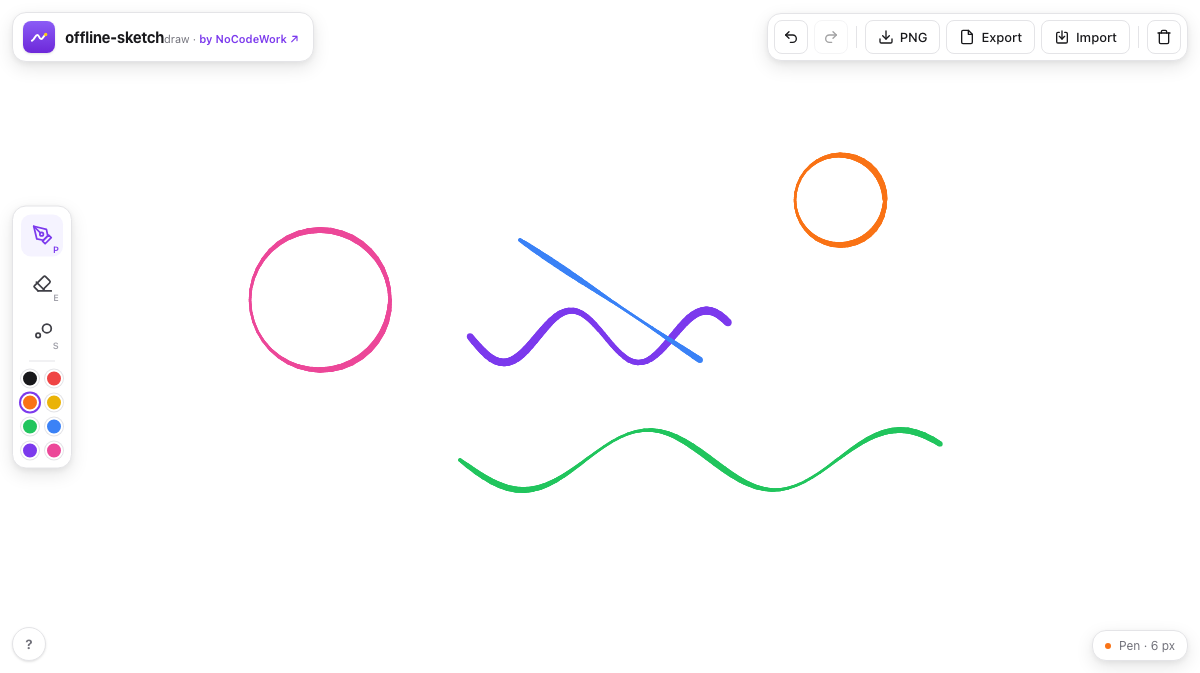
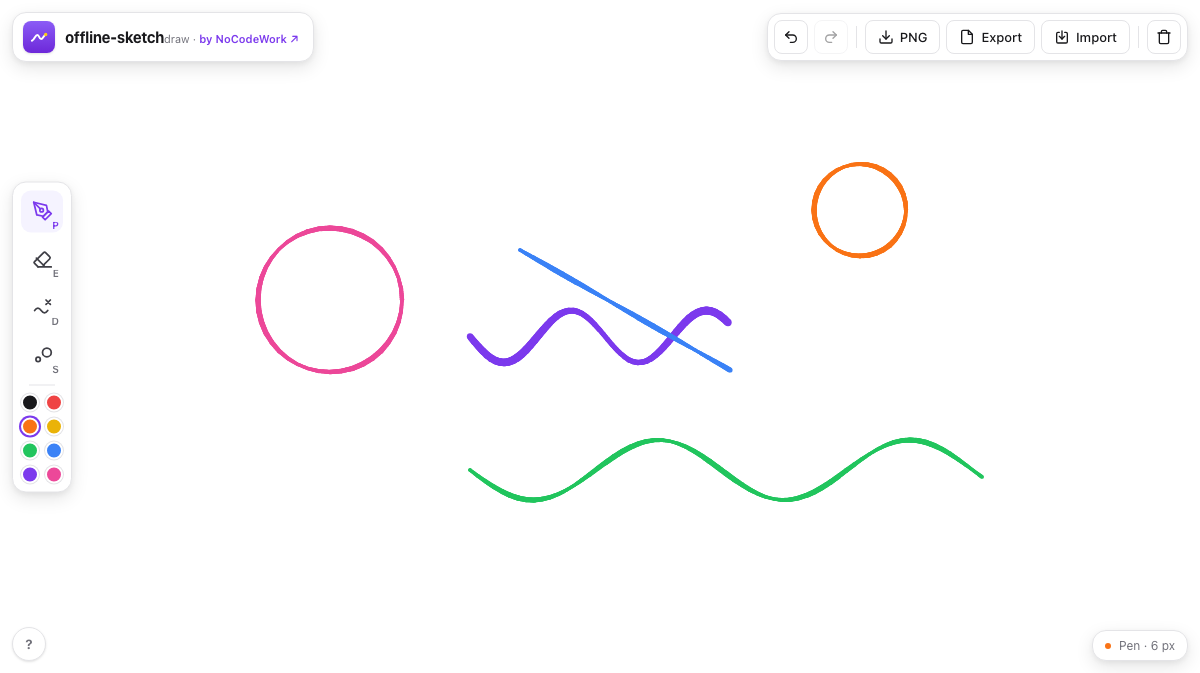
Add a stroke eraser (delete a whole line in one touch)
New "stroke eraser" tool (D): drag across a stroke and the whole stroke is
removed at once, instead of rubbing out pixels. Undo/redo now use a
snapshot history so deletions, the pixel eraser, drawing and Clear are all
reversible through the same path.

diff --git a/index.html b/index.html
@@ -131,7 +131,8 @@
 
   <div class="dock panel" aria-label="Tools">
     <button class="tool" id="toolPen" data-tool="pen" title="Pen (P)" aria-label="Pen"><svg viewBox="0 0 24 24" fill="none" stroke="currentColor" stroke-width="2" stroke-linecap="round" stroke-linejoin="round"><path d="M12 19l7-7 3 3-7 7-3-3z"/><path d="M18 13l-1.5-7.5L2 2l3.5 14.5L13 18l5-5z"/><path d="M2 2l7.586 7.586"/><circle cx="11" cy="11" r="2"/></svg><span class="kbd">P</span></button>
-    <button class="tool" id="toolEraser" data-tool="eraser" title="Eraser (E)" aria-label="Eraser"><svg viewBox="0 0 24 24" fill="none" stroke="currentColor" stroke-width="2" stroke-linecap="round" stroke-linejoin="round"><path d="m7 21-4.3-4.3a1 1 0 0 1 0-1.4L13 4.9a2 2 0 0 1 2.8 0l4.3 4.3a2 2 0 0 1 0 2.8L13 19"/><path d="M22 21H7"/><path d="m5 11 9 9"/></svg><span class="kbd">E</span></button>
+    <button class="tool" id="toolEraser" data-tool="eraser" title="Eraser — rub out pixels (E)" aria-label="Eraser"><svg viewBox="0 0 24 24" fill="none" stroke="currentColor" stroke-width="2" stroke-linecap="round" stroke-linejoin="round"><path d="m7 21-4.3-4.3a1 1 0 0 1 0-1.4L13 4.9a2 2 0 0 1 2.8 0l4.3 4.3a2 2 0 0 1 0 2.8L13 19"/><path d="M22 21H7"/><path d="m5 11 9 9"/></svg><span class="kbd">E</span></button>
+    <button class="tool" id="toolStrokeEraser" data-tool="strokeEraser" title="Stroke eraser — tap a line to delete it whole (D)" aria-label="Stroke eraser"><svg viewBox="0 0 24 24" fill="none" stroke="currentColor" stroke-width="2" stroke-linecap="round" stroke-linejoin="round"><path d="M3 16c2.5-3.5 5-3.5 7.5 0s5 3.5 7.5 0"/><path d="m16 4 5 5M21 4l-5 5"/></svg><span class="kbd">D</span></button>
     <button class="tool" id="toolSize" title="Brush size (S)" aria-label="Brush size" aria-haspopup="dialog" aria-controls="sizePop" aria-expanded="false"><svg viewBox="0 0 24 24" fill="none" stroke="currentColor" stroke-width="2"><circle cx="7" cy="17" r="2.5"/><circle cx="17" cy="9" r="5"/></svg><span class="kbd">S</span></button>
     <div class="divider"></div>
     <div class="swatches" id="swatches"></div>
@@ -153,7 +154,8 @@
     <h3 id="helpTitle">Sketching & shortcuts</h3>
     <dl>
       <dt><kbd>P</kbd></dt><dd>Pen (pressure-sensitive with a stylus)</dd>
-      <dt><kbd>E</kbd></dt><dd>Eraser</dd>
+      <dt><kbd>E</kbd></dt><dd>Eraser (rub out pixels)</dd>
+      <dt><kbd>D</kbd></dt><dd>Stroke eraser (tap a line to delete it whole)</dd>
       <dt><kbd>S</kbd></dt><dd>Brush size · <kbd>[</kbd> <kbd>]</kbd> smaller / bigger</dd>
       <dt><kbd>⌘Z</kbd></dt><dd>Undo · <kbd>⌘⇧Z</kbd> redo</dd>
     </dl>
@@ -178,10 +180,10 @@
 
   const COLORS = ['#18181B', '#EF4444', '#F97316', '#EAB308', '#22C55E', '#3B82F6', '#7C3AED', '#EC4899'];
   let state = { strokes: [], tool: 'pen', color: '#18181B', size: 6 };
-  let redoStack = [];
-  let clearedBackup = null;
+  let history = [], hIndex = -1;
   let dpr = Math.max(1, window.devicePixelRatio || 1);
   let drawing = null;     // current stroke being drawn
+  let erasing = false, erasedAny = false;
   let saveTimer = null;
 
   // ---------- rendering ----------
@@ -240,18 +242,22 @@
     return [+(e.clientX - r.left).toFixed(1), +(e.clientY - r.top).toFixed(1), +Math.max(0.05, Math.min(1, p)).toFixed(3)];
   }
   canvas.addEventListener('pointerdown', (e) => {
-    if (activeId !== null || e.button !== 0 && e.pointerType === 'mouse') return;
+    if (activeId !== null || (e.button !== 0 && e.pointerType === 'mouse')) return;
     e.preventDefault();
     try { canvas.setPointerCapture(e.pointerId); } catch (err) {}
     activeId = e.pointerId;
+    if (state.tool === 'strokeEraser') { erasing = true; erasedAny = false; eraseAt(pt(e)); return; }
     drawing = { tool: state.tool, color: state.color, size: state.size, pts: [pt(e)] };
     drawStroke(drawing);
   });
   canvas.addEventListener('pointermove', (e) => {
-    if (e.pointerId !== activeId || !drawing) return;
+    if (e.pointerId !== activeId) return;
     e.preventDefault();
     const events = e.getCoalescedEvents ? e.getCoalescedEvents() : [e];
-    for (const ev of (events.length ? events : [e])) {
+    const list = events.length ? events : [e];
+    if (erasing) { for (const ev of list) eraseAt(pt(ev)); return; }
+    if (!drawing) return;
+    for (const ev of list) {
       const p = pt(ev), last = drawing.pts[drawing.pts.length - 1];
       if (last && p[0] === last[0] && p[1] === last[1]) continue;
       drawing.pts.push(p);
@@ -262,8 +268,26 @@
     if (e.pointerId !== activeId) return;
     try { canvas.releasePointerCapture(e.pointerId); } catch (err) {}
     activeId = null;
-    if (drawing && drawing.pts.length) { state.strokes.push(drawing); redoStack = []; clearedBackup = null; updateUndo(); scheduleSave(); }
+    if (erasing) { erasing = false; if (erasedAny) pushHistory(); erasedAny = false; drawing = null; return; }
+    if (drawing && drawing.pts.length) { state.strokes.push(drawing); pushHistory(); }
     drawing = null;
+  }
+  // ---------- stroke eraser (delete a whole stroke on touch) ----------
+  function distToSeg(px, py, ax, ay, bx, by) {
+    const dx = bx - ax, dy = by - ay, l2 = dx * dx + dy * dy;
+    let t = l2 ? ((px - ax) * dx + (py - ay) * dy) / l2 : 0; t = Math.max(0, Math.min(1, t));
+    return Math.hypot(px - (ax + t * dx), py - (ay + t * dy));
+  }
+  function strokeHit(s, x, y) {
+    const tol = Math.max(9, s.size / 2 + 6), p = s.pts;
+    if (p.length === 1) return Math.hypot(x - p[0][0], y - p[0][1]) <= tol;
+    for (let i = 1; i < p.length; i++) if (distToSeg(x, y, p[i - 1][0], p[i - 1][1], p[i][0], p[i][1]) <= tol) return true;
+    return false;
+  }
+  function eraseAt(pp) {
+    for (let i = state.strokes.length - 1; i >= 0; i--) {
+      if (strokeHit(state.strokes[i], pp[0], pp[1])) { state.strokes.splice(i, 1); erasedAny = true; redrawAll(); return; }
+    }
   }
   canvas.addEventListener('pointerup', endStroke);
   canvas.addEventListener('pointercancel', endStroke);
@@ -272,15 +296,16 @@
   // ---------- tools / ui ----------
   function setTool(t) {
     state.tool = t;
-    document.getElementById('toolPen').classList.toggle('active', t === 'pen');
-    document.getElementById('toolEraser').classList.toggle('active', t === 'eraser');
-    document.getElementById('toolPen').setAttribute('aria-pressed', String(t === 'pen'));
-    document.getElementById('toolEraser').setAttribute('aria-pressed', String(t === 'eraser'));
-    canvas.style.cursor = t === 'eraser' ? 'cell' : 'crosshair';
+    [['toolPen', 'pen'], ['toolEraser', 'eraser'], ['toolStrokeEraser', 'strokeEraser']].forEach(([id, name]) => {
+      const el = document.getElementById(id);
+      el.classList.toggle('active', t === name); el.setAttribute('aria-pressed', String(t === name));
+    });
+    canvas.style.cursor = (t === 'eraser' || t === 'strokeEraser') ? 'cell' : 'crosshair';
     updateStatus(); save();
   }
   document.getElementById('toolPen').onclick = () => setTool('pen');
   document.getElementById('toolEraser').onclick = () => setTool('eraser');
+  document.getElementById('toolStrokeEraser').onclick = () => setTool('strokeEraser');
 
   const swatchWrap = document.getElementById('swatches');
   COLORS.forEach(c => {
@@ -309,25 +334,29 @@
     dot.style.width = d + 'px'; dot.style.height = d + 'px';
     dot.style.background = state.tool === 'eraser' ? 'transparent' : state.color;
     dot.style.boxShadow = state.tool === 'eraser' ? 'inset 0 0 0 2px var(--faint)' : 'none';
-    document.getElementById('statusText').textContent = (state.tool === 'eraser' ? 'Eraser' : 'Pen') + ' · ' + state.size + ' px';
+    document.getElementById('statusText').textContent = state.tool === 'strokeEraser' ? 'Stroke eraser · tap a line' : (state.tool === 'eraser' ? 'Eraser' : 'Pen') + ' · ' + state.size + ' px';
   }
 
   // ---------- undo / redo / clear ----------
+  function snapshot() { return JSON.stringify(state.strokes); }
+  function pushHistory() {
+    const snap = snapshot();
+    if (history[hIndex] === snap) { updateUndo(); return; }
+    history = history.slice(0, hIndex + 1); history.push(snap);
+    if (history.length > 50) history.shift();
+    hIndex = history.length - 1; updateUndo(); scheduleSave();
+  }
   function updateUndo() {
-    document.getElementById('btnUndo').disabled = state.strokes.length === 0 && !clearedBackup;
-    document.getElementById('btnRedo').disabled = redoStack.length === 0;
+    document.getElementById('btnUndo').disabled = hIndex <= 0;
+    document.getElementById('btnRedo').disabled = hIndex >= history.length - 1;
   }
-  function undo() {
-    if (clearedBackup && !state.strokes.length) { state.strokes = clearedBackup; clearedBackup = null; redrawAll(); updateUndo(); scheduleSave(); return; }
-    if (!state.strokes.length) return;
-    redoStack.push(state.strokes.pop()); redrawAll(); updateUndo(); scheduleSave();
-  }
-  function redo() { if (!redoStack.length) return; state.strokes.push(redoStack.pop()); redrawAll(); updateUndo(); scheduleSave(); }
+  function undo() { if (hIndex <= 0) return; hIndex--; state.strokes = JSON.parse(history[hIndex]); redrawAll(); updateUndo(); scheduleSave(); }
+  function redo() { if (hIndex >= history.length - 1) return; hIndex++; state.strokes = JSON.parse(history[hIndex]); redrawAll(); updateUndo(); scheduleSave(); }
   document.getElementById('btnUndo').onclick = undo;
   document.getElementById('btnRedo').onclick = redo;
   document.getElementById('btnClear').onclick = () => {
     if (!state.strokes.length) return;
-    if (confirm('Clear the whole canvas?')) { clearedBackup = state.strokes.filter(x => !x._welcome); state.strokes = []; redoStack = []; redrawAll(); updateUndo(); scheduleSave(); flash('Cleared — press Undo (⌘Z) to bring it back'); }
+    if (confirm('Clear the whole canvas?')) { state.strokes = []; redrawAll(); pushHistory(); flash('Cleared — press Undo (⌘Z) to bring it back'); }
   };
 
   // ---------- export / import ----------
@@ -396,7 +425,7 @@
       const next = sanitizeStrokes(d && d.strokes);
       if (!next.length) { flash('No drawing found in that file'); return; }
       if (state.strokes.some(x => !x._welcome) && !confirm('Importing will replace the current drawing. Continue?')) return;
-      state.strokes = next; redoStack = []; clearedBackup = null; redrawAll(); updateUndo(); scheduleSave(); flash('Imported ' + f.name);
+      state.strokes = next; redrawAll(); history = [snapshot()]; hIndex = 0; updateUndo(); scheduleSave(); flash('Imported ' + f.name);
     };
     r.onerror = () => flash('Could not read file');
     r.readAsText(f);
@@ -455,6 +484,7 @@
     if (meta) return;
     if (e.key === 'p' || e.key === 'P') setTool('pen');
     else if (e.key === 'e' || e.key === 'E') setTool('eraser');
+    else if (e.key === 'd' || e.key === 'D') setTool('strokeEraser');
     else if (e.key === 's' || e.key === 'S') sizePop.hidden = !sizePop.hidden;
     else if (e.key === '[') setSize(state.size - 2);
     else if (e.key === ']') setSize(state.size + 2);
@@ -481,8 +511,9 @@
     const c = window.innerWidth / 2, m = window.innerHeight / 2;
     const wave = []; for (let i = 0; i <= 60; i++) { const x = c - 130 + i * 4.3; const y = m + Math.sin(i / 5) * 26; wave.push([+x.toFixed(1), +y.toFixed(1), +(0.35 + 0.3 * (1 + Math.sin(i / 7))).toFixed(3)]); }
     state.strokes.push({ tool: 'pen', color: '#7C3AED', size: 8, pts: wave, _welcome: true });
-    redrawAll(); updateUndo();
+    redrawAll();
   }
+  history = [snapshot()]; hIndex = 0; updateUndo();
 })();
 </script>
 </body>